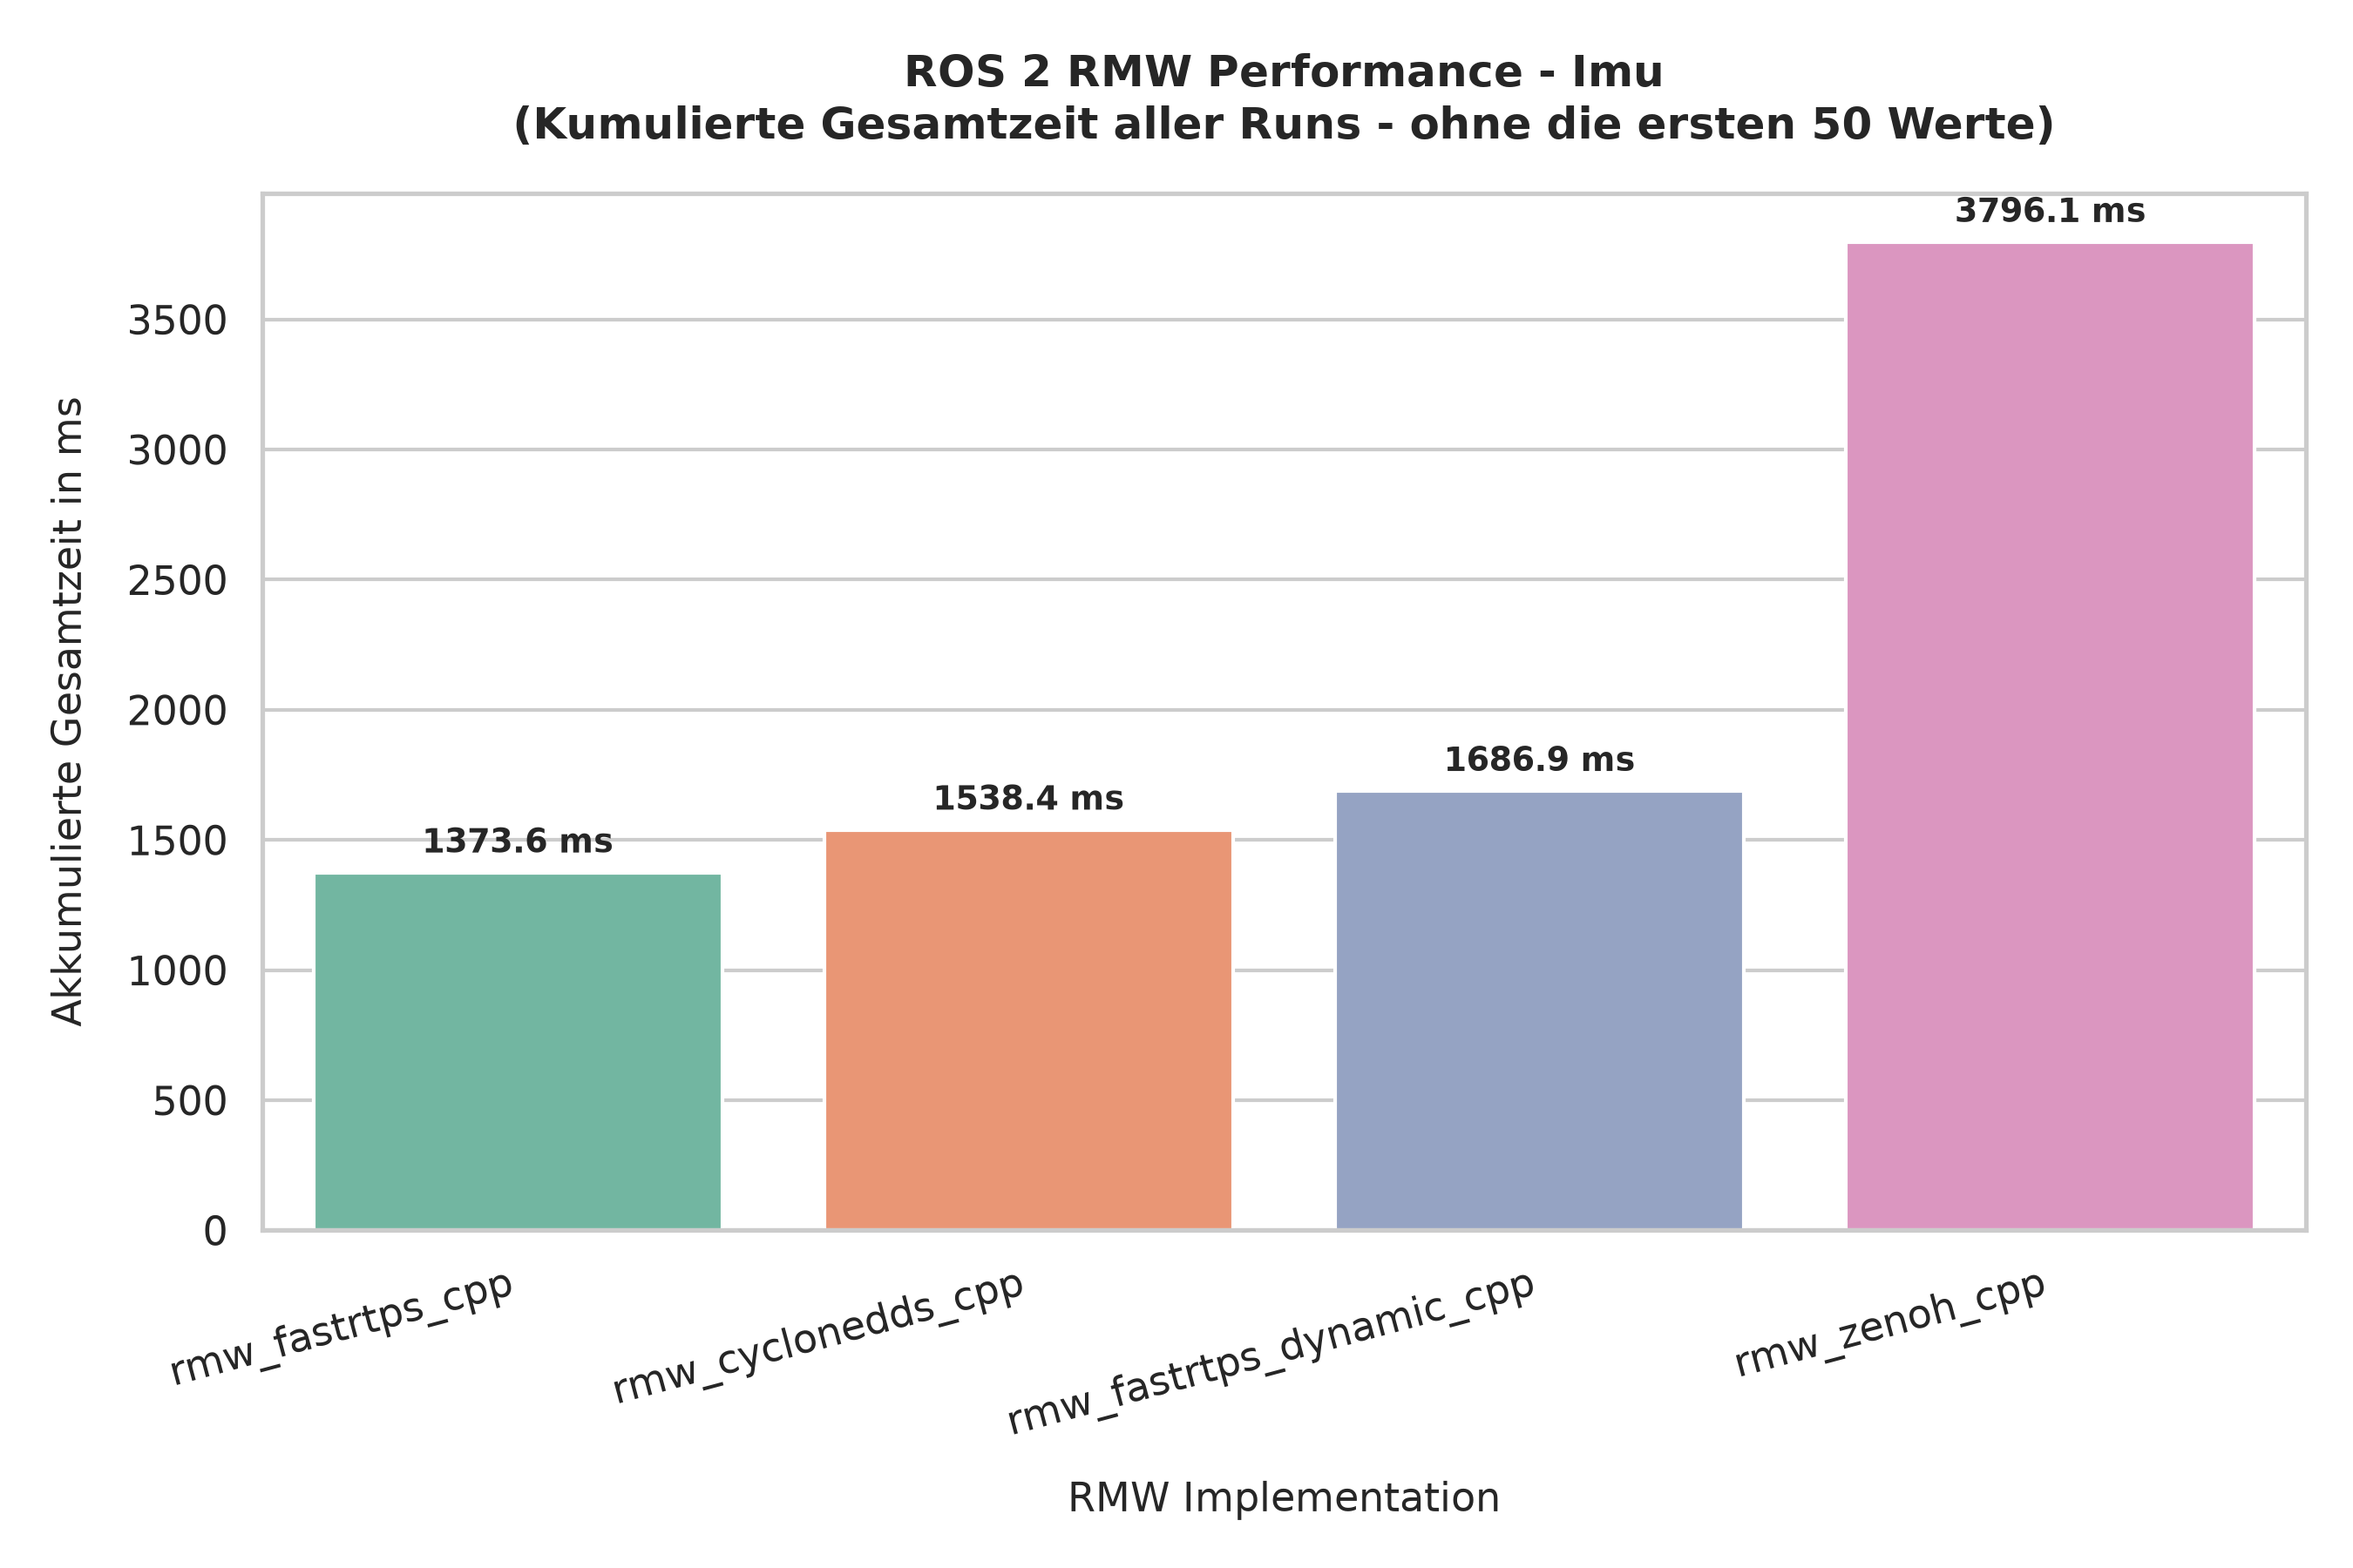
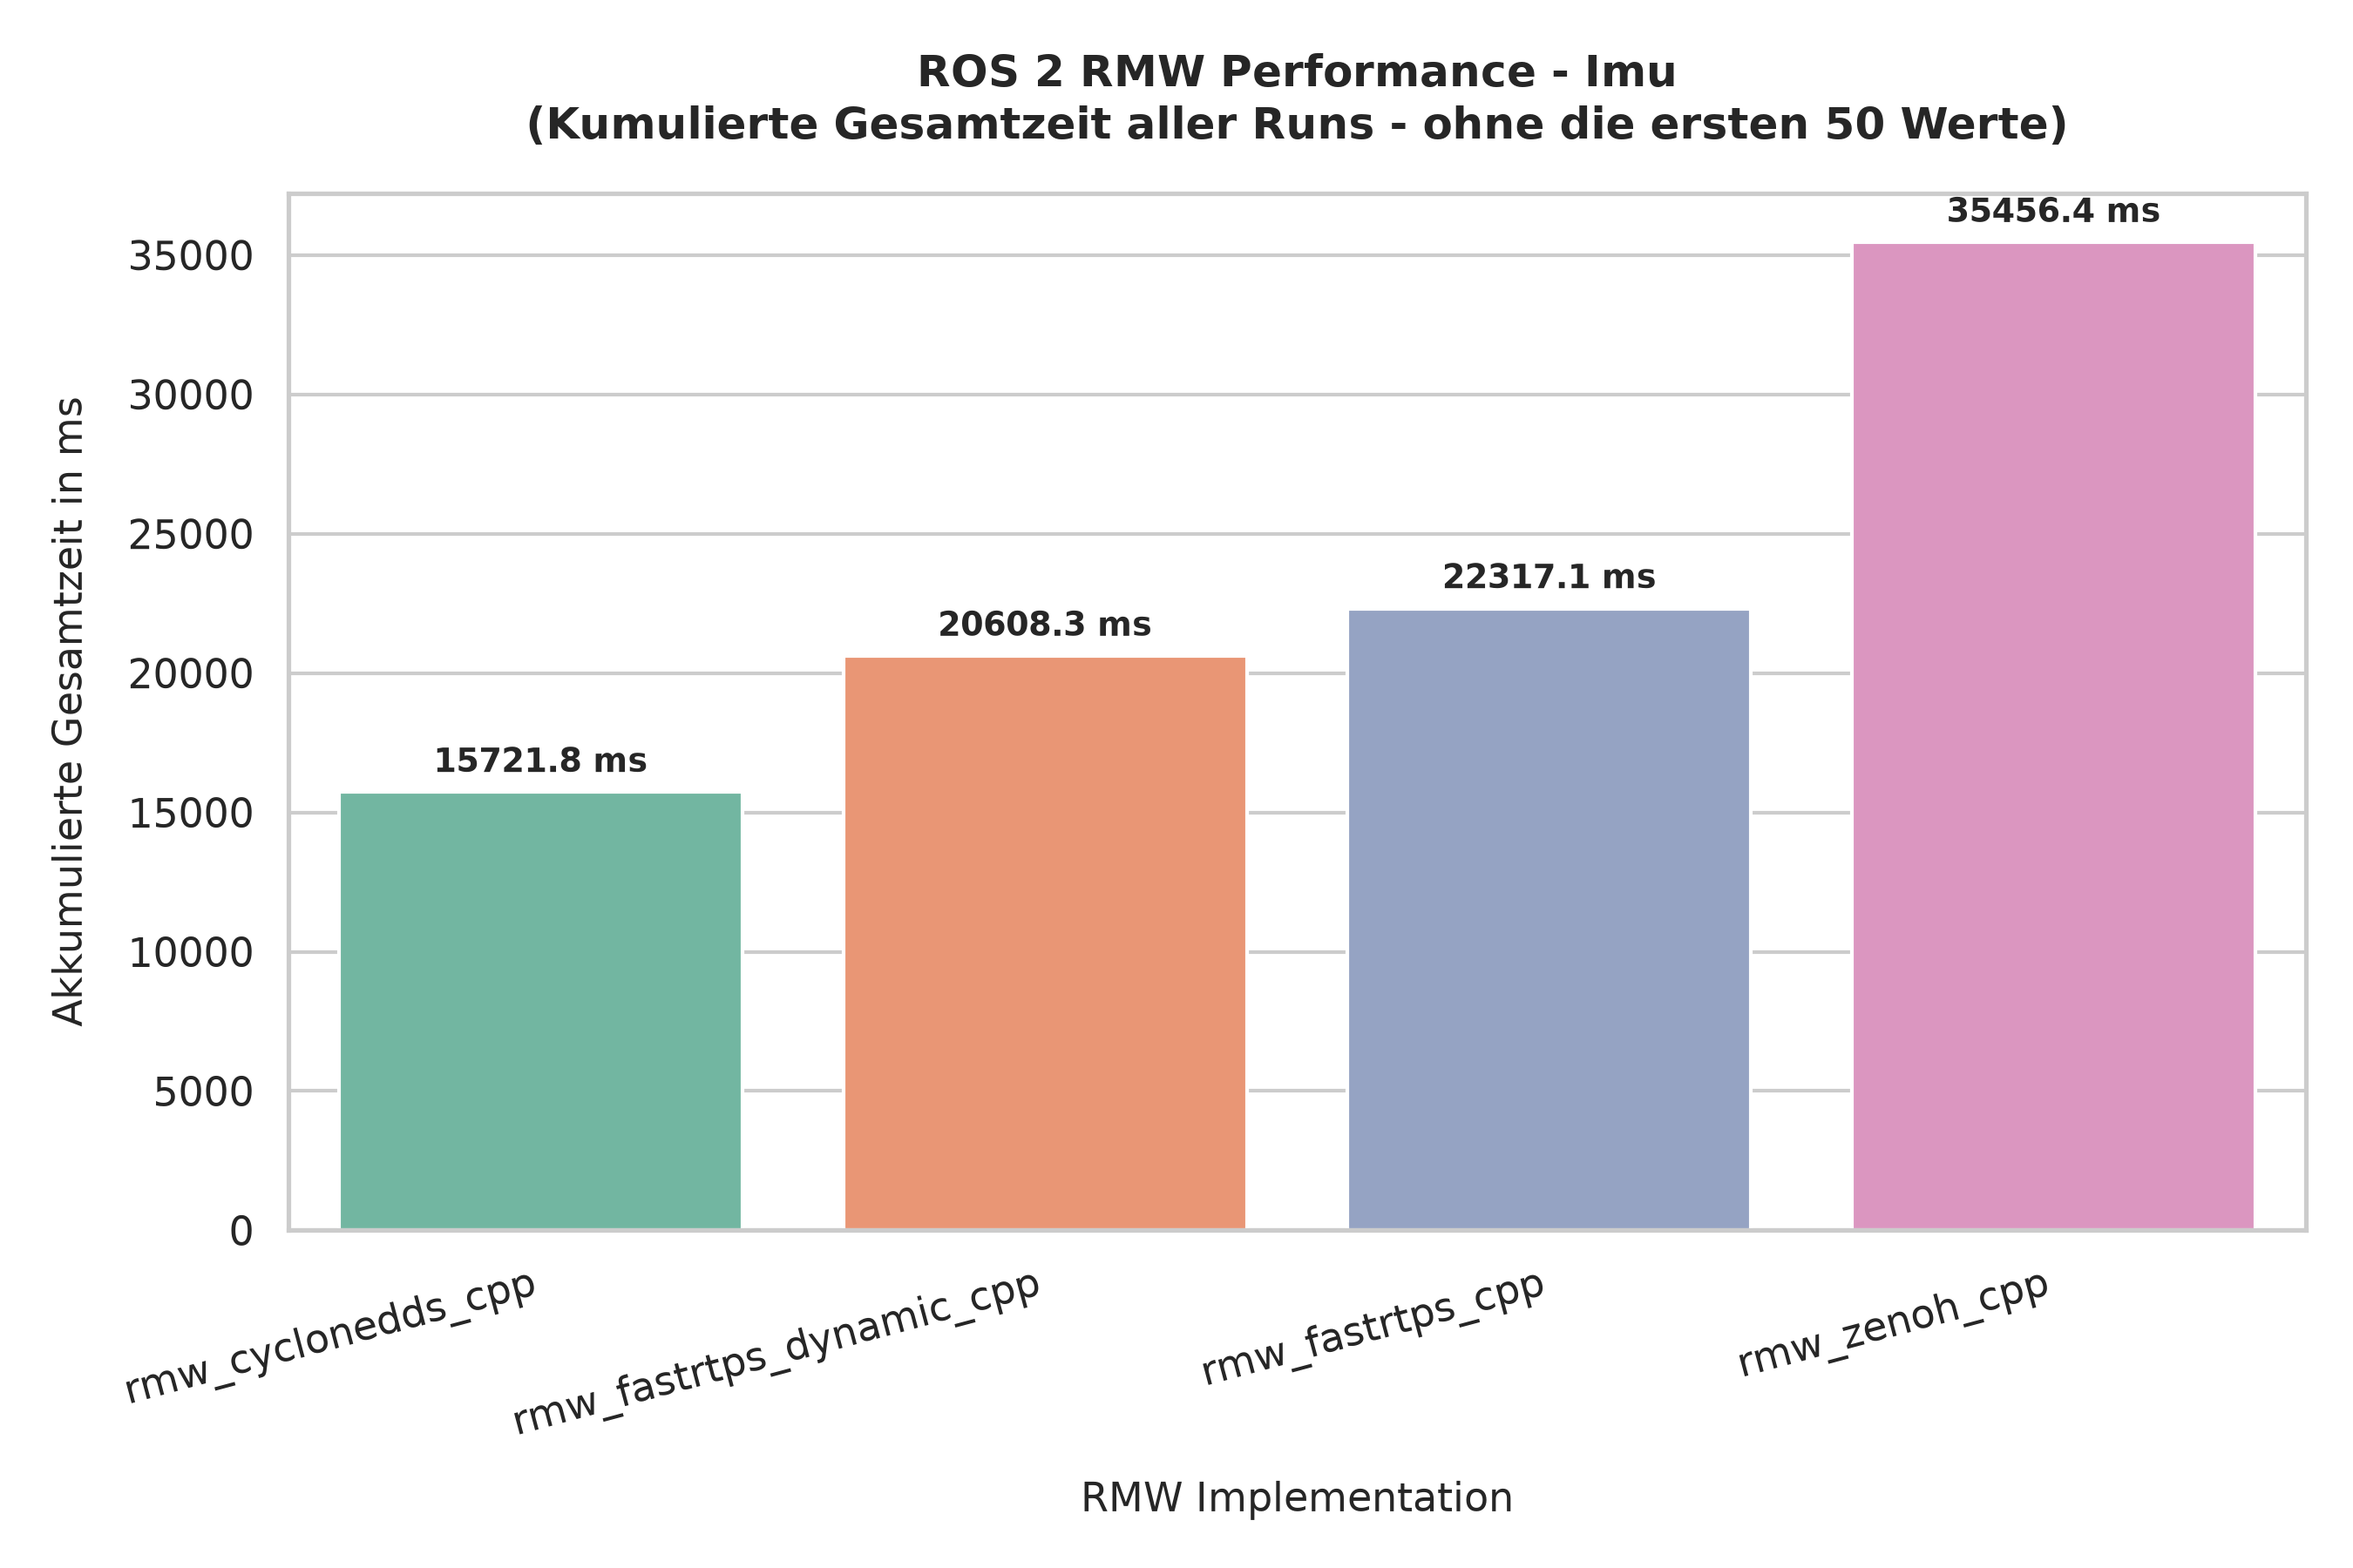
add meta data file to messurement results dir

diff --git a/methodik.md b/methodik.md
@@ -1,3 +1,5 @@
 Findings:
 -es gibt anscheinend unterschiedlichen serialisungs und deresialisirung overhead für unterschiedliche nachrichen auf grund der nachrichten strucktur
 auch wenn eine nachricht kleiner ist kann die andere strucktur evtl zu mehr overhead führen
+
+-für richtiges benchmarking müsste man wohl auf Bare-Metal-Maschinen laufen lassen
